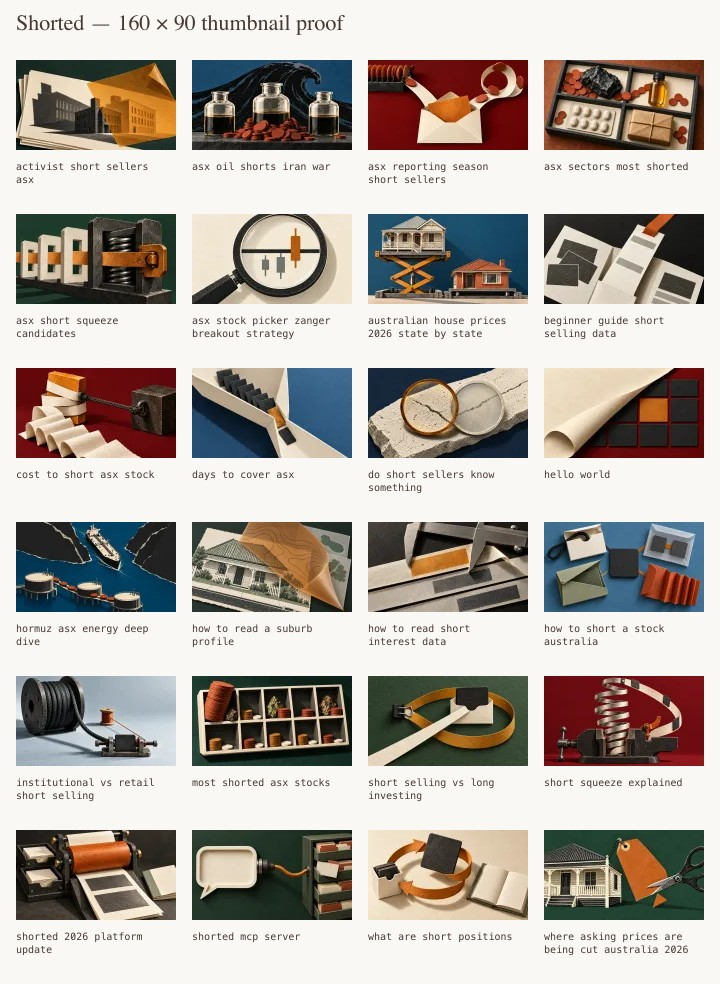
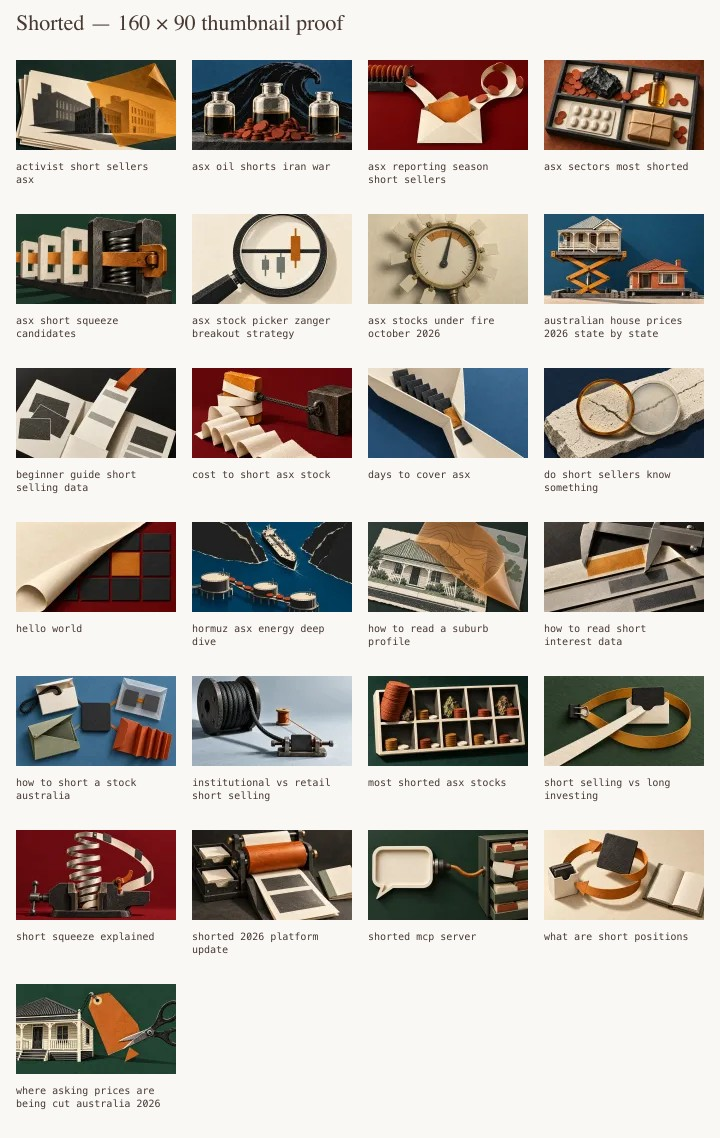
art: cover for the October 2026 stocks-under-fire edition
A sealed brass pressure gauge on cream paper, its needle deep in the amber
band, ten blank paper tags clipped around the rim: the short list crowded
past the usual range, with nothing bursting. Generated with the repo's
editorial generator (gpt-image-2, high), exported at 1600x900 with the
800x450 card thumbnail; the prompt and original sit in output/article-covers
and the review manifest, sheet and 160x90 proof are refreshed for all 25.

diff --git a/output/article-covers/asx-stocks-under-fire-october-2026.md b/output/article-covers/asx-stocks-under-fire-october-2026.md
@@ -1,0 +1,14 @@
+# asx-stocks-under-fire-october-2026 (v1)
+
+Mode: `scripts/image-gen generate --type=hero --quality=high` (openai gpt-image-2-2026-04-21, 1536x1024), the repo's generator, which wraps the brief in the same editorial art direction as the built-in image_gen covers (scripts/image-gen/src/brand-prompt.ts). BrandBrain flow `flow_session_2f66d11cf696` holds the same brief but its live runs were refused on 2026-10-07.
+Source: /private/tmp/claude-501/-Users-benebsworth-projects-shorted-com-au/e3b39d86-0f5e-4882-b328-b93bfe63e083/scratchpad/cover-candidate-1.png
+Exported: web/public/assets/blog/asx-stocks-under-fire-october-2026/cover-editorial-v1.webp (1600x900, centre crop)
+
+## Brief
+finding -> subject -> action -> caveat: the October short list is crowded past the safe range -> a sealed brass pressure gauge on warm cream paper -> its black needle pushed deep into the burnt-amber band, ten blank paper tags clipped around the rim -> a reported position is a level, not a forecast; no text anywhere, the tags are blank.
+Compositional hook: one dominant mass slightly left of centre, the needle in the amber band as the focal moment; light/dark shapes: pale dial and cream ground against the charcoal needle and brass rim; colour field: burnt amber band only; material: cut paper, brass, charcoal ink, printmaking registration.
+
+## Prompt (brief node)
+Editorial cover illustration for a data article titled "ASX stocks under fire: the most shorted stocks going into October 2026" on shorted.com.au, a warm, monospace, paper-and-amber financial publication. One idea, one decisive visual moment: a single sealed brass pressure gauge, seen close and slightly from above, resting on warm cream paper. Its black needle is pushed deep into the burnt-amber band at the top of the dial, the reading visibly past the safe range. Clipped around the rim of the gauge are ten small blank paper tags on tiny brass clips, like ticker tags, all unlabelled. Treatment: a materially believable still life with cut-paper and printmaking cues: visible paper fibre, crisp cut edges, sparse ink registration, soft directional daylight from the upper left, one quiet cast shadow. Palette: warm cream paper, charcoal black, brass, and a single field of burnt amber on the dial band; no red, no green, no blue. Composition: the gauge and its needle occupy about two thirds of the 16:9 frame inside the central safe area, generous negative space around it, asymmetric balance with the gauge slightly left of centre. Absolutely no text, numerals, letters, logos, watermarks, charts or screens anywhere; the dial face has only tick marks and the needle. No glow, no explosions, no cinematic orange haze, no extra props.
+
+Guardrails node: title rendered outside the image; subject inside the central 80%; needle position in the amber band is the single focal moment. Style node: palette #F9F8F5 #483932 #9E5210 #B08D57; negatives: no text/numerals/logos, no red/green/blue/purple, no gradients/glow/haze, no charts/screens/coins/bulls/bears, no clutter.
